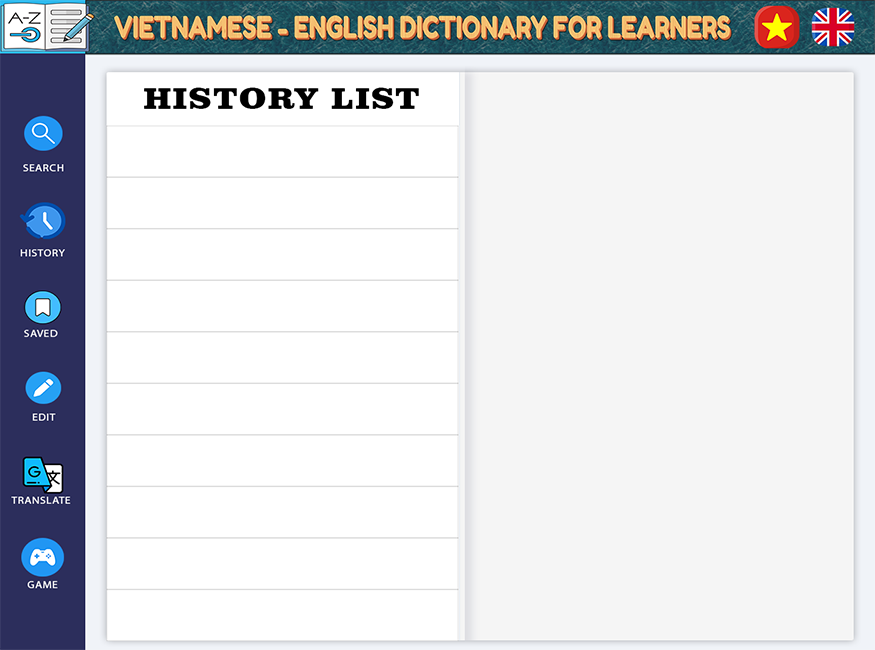
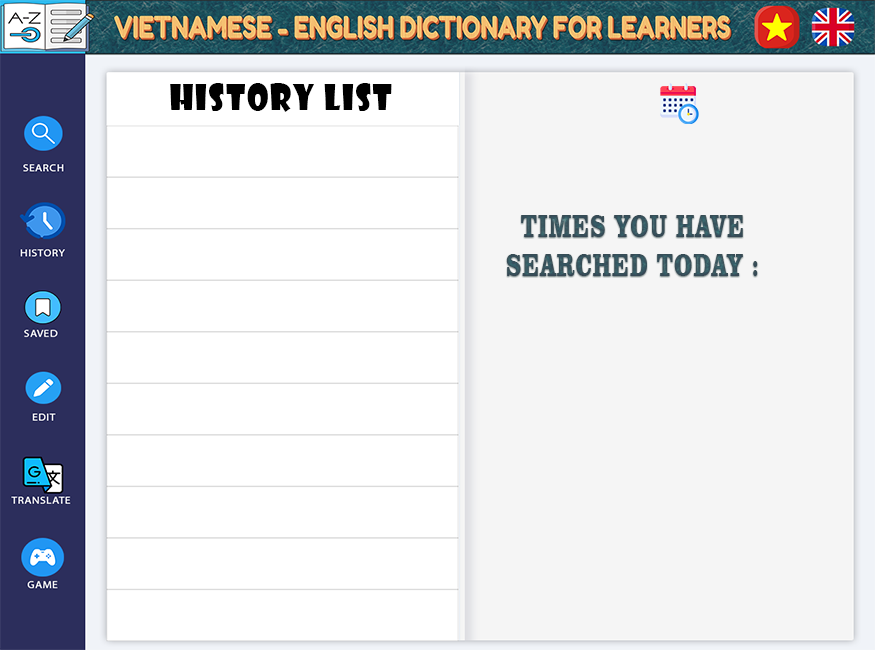
Commit

Changed region(s): [[0.5554, 0.3077, 0.864, 0.4308], [0.1543, 0.1231, 0.4937, 0.1846], [0.7406, 0.1231, 0.8023, 0.1846]]

diff --git a/src/main/java/com/example/btl1_dictionary/History_Controller.java b/src/main/java/com/example/btl1_dictionary/History_Controller.java
@@ -5,6 +5,7 @@ import javafx.fxml.FXMLLoader;
 import javafx.scene.Node;
 import javafx.scene.Parent;
 import javafx.scene.Scene;
+import javafx.scene.chart.BarChart;
 import javafx.scene.control.TextField;
 import javafx.scene.image.ImageView;
 import javafx.scene.input.MouseEvent;
@@ -12,8 +13,15 @@ import javafx.scene.text.Font;
 import javafx.stage.Stage;
 
 import java.io.*;
+import java.text.SimpleDateFormat;
 import java.util.ArrayList;
+import java.util.Date;
 import java.util.List;
+
+import javafx.scene.chart.BarChart;
+import javafx.scene.chart.CategoryAxis;
+import javafx.scene.chart.NumberAxis;
+import javafx.scene.chart.XYChart;
 
 public class History_Controller extends General_Controller {
 
@@ -67,10 +75,19 @@ public class History_Controller extends General_Controller {
     @FXML
     private ImageView remove10;
 
+    @FXML
+    private BarChart<String, Number> frequency;
+
+    @FXML
+    private TextField today;
+
+    @FXML
+    private TextField schedule;
+
     public void initialize() throws IOException {
         try {
-            String path = "src/main/resources/com/example/btl1_dictionary/History.txt";
-            BufferedReader bf = new BufferedReader(new FileReader(path));
+            String historyPath = "src/main/resources/com/example/btl1_dictionary/History.txt";
+            BufferedReader bf = new BufferedReader(new FileReader(historyPath));
             String line = "";
             int count = 0;
             List<String> list = new ArrayList<String>();
@@ -99,6 +116,54 @@ public class History_Controller extends General_Controller {
             word8.setText(list.get(7));
             word9.setText(list.get(8));
             word10.setText(list.get(9));
+
+            boolean checkDate = true;
+            boolean newDay = false;
+            String lastDate = "";
+            String frequencyPath = "src/main/resources/com/example/btl1_dictionary/Frequency.txt";
+            BufferedReader bf2 = new BufferedReader(new FileReader(frequencyPath));
+            String line2 = "";
+            List<Integer> list2 = new ArrayList<>();
+            while ((line2 = bf2.readLine()) != null) {
+                if (!line2.isEmpty()) {
+                    if (checkDate) {
+                        lastDate = line2.trim();
+                        checkDate = false;
+                        continue;
+                    }
+                    list2.add(Integer.parseInt(line2.trim()));
+                }
+            }
+            bf2.close();
+
+            long currentTimeMillis = System.currentTimeMillis();
+            Date currentDate = new Date(currentTimeMillis);
+            SimpleDateFormat dateFormat = new SimpleDateFormat("yyyy-MM-dd");
+            String currentDateString = dateFormat.format(currentDate);
+            String day = currentDateString.substring(8,10);
+            String month = currentDateString.substring(5,7);
+            String year = currentDateString.substring(0,4);
+            schedule.setText(day + "/" + month + "/" + year);
+            if (!currentDateString.equals(lastDate)) {
+                newDay = true;
+            }
+
+            today.setText((newDay) ? "0" : list2.get(0).toString());
+            frequency.setAnimated(false);
+            frequency.setTitle("FREQUENCY LAST 7 DAYS YOU USE THE APP");
+            frequency.setCategoryGap(1);
+
+            XYChart.Series<String, Number> series = new XYChart.Series<>();
+            series.getData().add(new XYChart.Data<>("6D", (newDay) ? list2.get(5) : list2.get(6)));
+            series.getData().add(new XYChart.Data<>("5D", (newDay) ? list2.get(4) : list2.get(5)));
+            series.getData().add(new XYChart.Data<>("4D", (newDay) ? list2.get(3) : list2.get(4)));
+            series.getData().add(new XYChart.Data<>("3D", (newDay) ? list2.get(2) : list2.get(3)));
+            series.getData().add(new XYChart.Data<>("2D", (newDay) ? list2.get(1) : list2.get(2)));
+            series.getData().add(new XYChart.Data<>("1D", (newDay) ? list2.get(0) : list2.get(1)));
+            series.getData().add(new XYChart.Data<>("TODAY", (newDay) ? 0 : list2.get(0)));
+
+            frequency.getData().add(series);
+
         } catch (Exception e) {
             e.printStackTrace();
         }

diff --git a/src/main/java/com/example/btl1_dictionary/Search_Controller.java b/src/main/java/com/example/btl1_dictionary/Search_Controller.java
@@ -15,7 +15,9 @@ import javafx.scene.web.WebView;
 import javafx.util.Callback;
 
 import java.io.*;
+import java.text.SimpleDateFormat;
 import java.util.ArrayList;
+import java.util.Date;
 import java.util.List;
 
 import com.sun.speech.freetts.Voice;
@@ -141,9 +143,9 @@ public class Search_Controller extends General_Controller {
     @FXML
     void search(MouseEvent event) throws Exception {
         String input = searchBar.getText().toLowerCase();
-        String path = "src/main/resources/com/example/btl1_dictionary/History.txt";
+        String historyPath = "src/main/resources/com/example/btl1_dictionary/History.txt";
+        String frequencyPath = "src/main/resources/com/example/btl1_dictionary/Frequency.txt";
 
-        String html = Database_Connect.GetWordFromDatabase(input);
         meaning.getEngine().loadContent(Database_Connect.GetWordFromDatabase(input), "text/html");
 
         if (!Database_Connect.found) {
@@ -152,7 +154,7 @@ public class Search_Controller extends General_Controller {
             voice.setImage(Voice_Image);
             List<String> lines = new ArrayList<>();
             String line = "";
-            BufferedReader br = new BufferedReader(new FileReader(path));
+            BufferedReader br = new BufferedReader(new FileReader(historyPath));
             while ((line = br.readLine()) != null) {
                 if (!line.isEmpty()) {
                     lines.add(line.trim());
@@ -172,12 +174,50 @@ public class Search_Controller extends General_Controller {
             lines.removeIf(e -> e.equals(input));
             lines.add(0, input);
 
-            FileWriter fw = new FileWriter(path);
+            FileWriter fw = new FileWriter(historyPath);
             for (String lineToWrite : lines) {
                 fw.write(lineToWrite);
                 fw.write("\n");
             }
             fw.close();
+
+            long currentTimeMillis = System.currentTimeMillis();
+            Date currentDate = new Date(currentTimeMillis);
+            SimpleDateFormat dateFormat = new SimpleDateFormat("yyyy-MM-dd");
+            String currentDateString = dateFormat.format(currentDate);
+
+            boolean getDate = true;
+            String lastDate ="";
+            List<Integer> lines2 = new ArrayList<>();
+            String line2 = "";
+            BufferedReader br2 = new BufferedReader(new FileReader(frequencyPath));
+            while ((line2 = br2.readLine()) != null) {
+                if (!line2.isEmpty()) {
+                    if (getDate) {
+                        lastDate = line2;
+                        getDate = false;
+                        continue;
+                    }
+                    lines2.add(Integer.parseInt(line2.trim()));
+                }
+            }
+            br2.close();
+
+            if (currentDateString.equals(lastDate)) {
+                lines2.set(0,lines2.get(0)+1);
+            } else {
+                lines2.add(0,1);
+                lines2.remove(lines2.size() - 1);
+            }
+
+            FileWriter fw2 = new FileWriter(frequencyPath);
+            fw2.write(currentDateString);
+            fw2.write("\n");
+            for (Integer lineToWrite : lines2) {
+                fw2.write(lineToWrite.toString());
+                fw2.write("\n");
+            }
+            fw2.close();
         }
     }
 
@@ -186,8 +226,8 @@ public class Search_Controller extends General_Controller {
         System.setProperty("freetts.voices", "com.sun.speech.freetts.en.us.cmu_us_kal.KevinVoiceDirectory");
         Voice voice = VoiceManager.getInstance().getVoice("kevin16");
         Voice[] voicelist = VoiceManager.getInstance().getVoices();
-        for(int  i = 0 ; i  <voicelist.length ; i++) {
-            System.out.println("voice :" + voicelist[i].getName());
+        for (Voice value : voicelist) {
+            System.out.println("voice :" + value.getName());
         }
         if(voice!=null) {
             voice.allocate();

diff --git a/src/main/java/com/example/btl1_dictionary/Start_Application.java b/src/main/java/com/example/btl1_dictionary/Start_Application.java
@@ -81,7 +81,7 @@ public class Start_Application extends Application {
             Scene scene = new Scene(root, 875, 650);
 
 
-            stage.setTitle("3L DICTIONARY");
+            stage.setTitle("DICTIONARY");
             stage.setScene(scene);
             stage.show();
         } catch (Exception e) {
